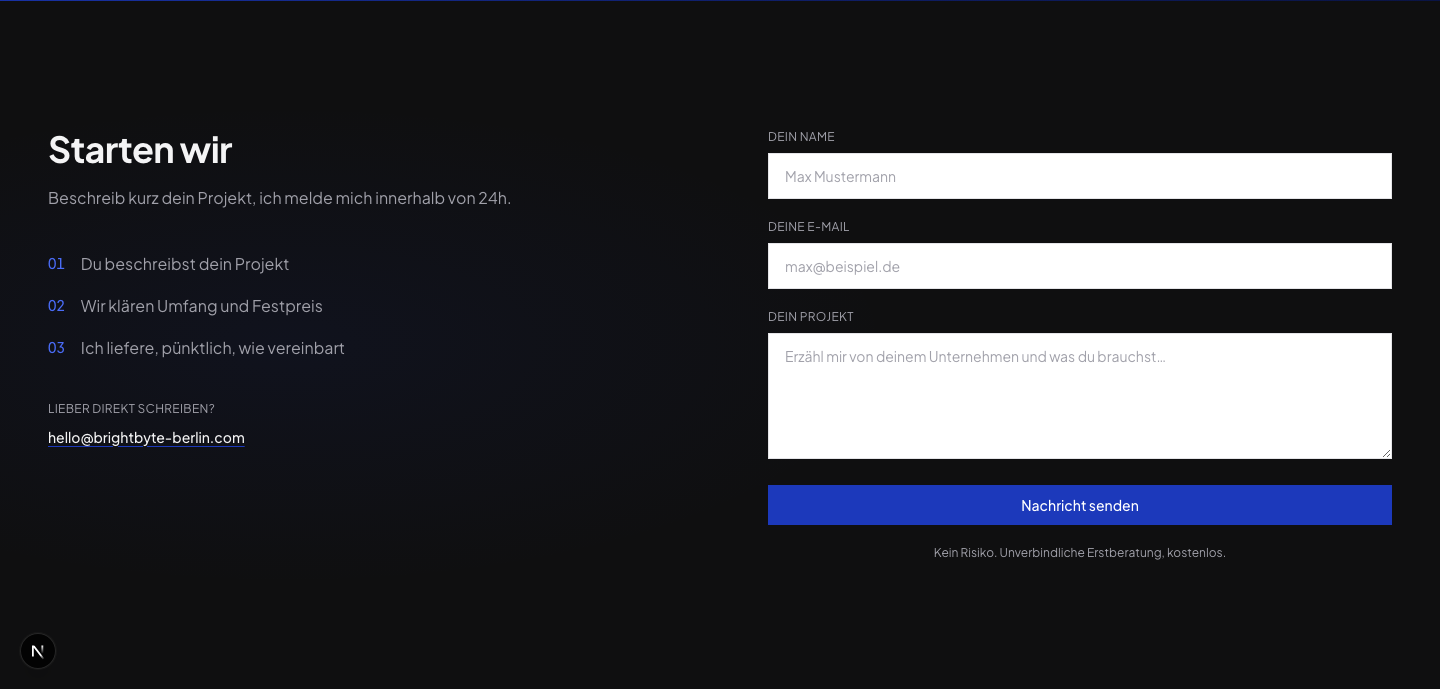
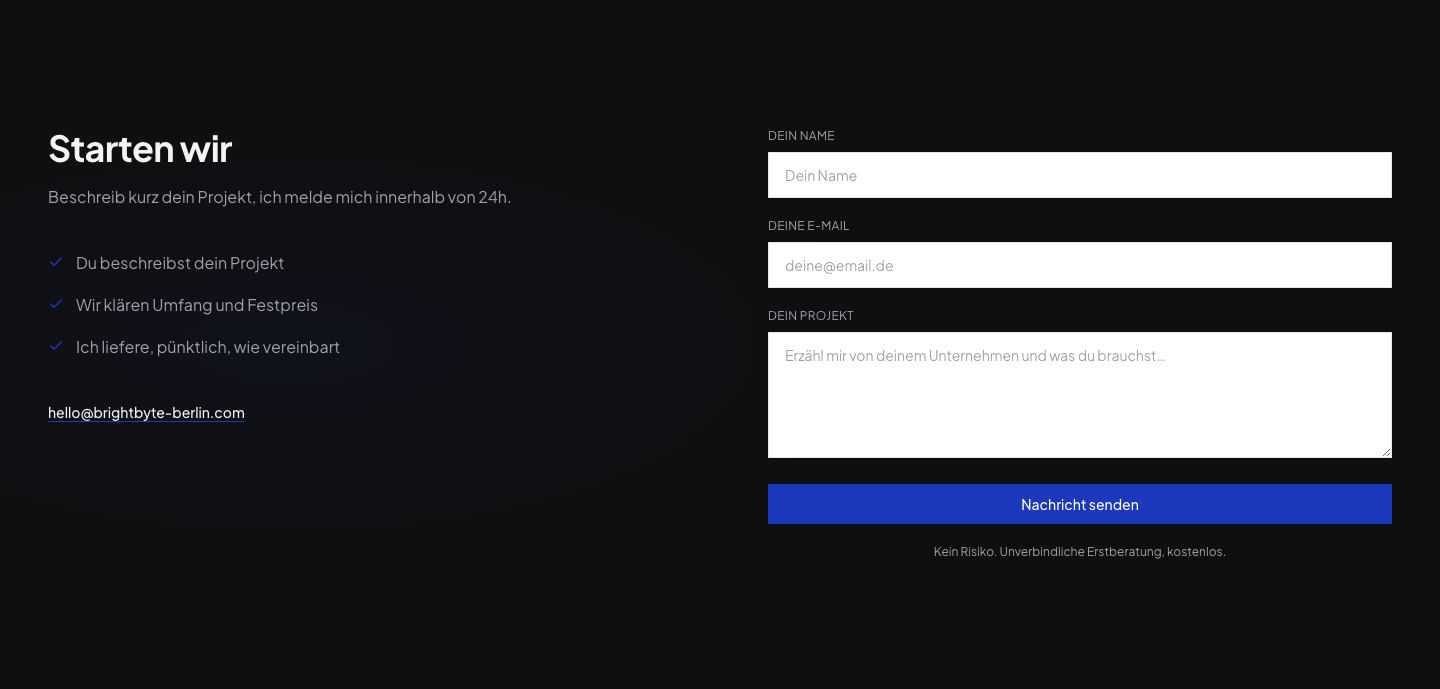
refactor: about illustration, centered pricing, clean contact
About:
- Abstract geometric SVG replaces stock photo (accent rectangles,
  lines, dot matching the wireframe language)
- Removed stat-line template per craft-floor (no hero-metric pattern)
- Vertically centered grid alignment

Pricing:
- Centered heading and trust note
- gap-px card grid (max-w-4xl mx-auto) matching services pattern
- Accent-colored checkmarks instead of inline blue hex

Contact:
- Neutral placeholders (Dein Name, deine@email.de)
- Checkmark list replaces numbered steps (craft-floor: no 01/02/03)
- Removed LIEBER DIREKT SCHREIBEN kicker
- Reduced radial glow opacity

diff --git a/components/sections/AboutSection.tsx b/components/sections/AboutSection.tsx
@@ -1,9 +1,9 @@
 /**
  * components/sections/AboutSection.tsx — About section, dark surface.
  *
- * Dark background between Projects and Pricing.
- * Photo left (stock fallback until real photo in Sanity), text right.
- * No decorative glow, no eyebrow. Heading carries its own weight.
+ * Abstract geometric illustration left, text right.
+ * No decorative glow, no eyebrow, no stat-line template.
+ * Skills as a quiet middot-separated line.
  */
 'use client'
 
@@ -14,9 +14,35 @@ import type { SITE_SETTINGS_QUERY_RESULT } from '@/sanity.types'
 
 const SKILLS = ['React', 'Next.js', 'TypeScript', 'Node.js', 'Tailwind', 'Figma', 'Sanity', 'Vercel']
 
-/** Stock headshot placeholder until a real photo lands in Sanity. */
-const STOCK_PHOTO =
-  'https://images.pexels.com/photos/2379004/pexels-photo-2379004.jpeg?auto=compress&cs=tinysrgb&w=640&h=840&fit=crop'
+/**
+ * Abstract geometric illustration: overlapping rectangles in the accent palette.
+ * Sits in the photo slot until a real portrait lands in Sanity.
+ * Pure SVG, no external dependency, matches the wireframe language.
+ */
+function AbstractPortrait() {
+  return (
+    <div
+      className="w-[280px] h-[370px] md:w-[300px] md:h-[400px] flex items-center justify-center"
+      style={{ background: 'linear-gradient(160deg, #0F0F10 0%, #111114 100%)' }}
+      aria-hidden="true"
+    >
+      <svg viewBox="0 0 240 320" fill="none" className="w-[200px] h-[280px]">
+        {/* Large accent rectangle */}
+        <rect x="20" y="40" width="140" height="180" fill="var(--color-accent)" opacity="0.15" />
+        {/* Medium offset rectangle */}
+        <rect x="80" y="100" width="140" height="180" stroke="var(--color-accent)" strokeWidth="1" opacity="0.3" />
+        {/* Small solid accent block */}
+        <rect x="60" y="160" width="60" height="60" fill="var(--color-accent)" opacity="0.25" />
+        {/* Thin horizontal lines */}
+        <line x1="20" y1="250" x2="220" y2="250" stroke="white" strokeWidth="0.5" opacity="0.1" />
+        <line x1="20" y1="265" x2="160" y2="265" stroke="white" strokeWidth="0.5" opacity="0.1" />
+        <line x1="20" y1="280" x2="100" y2="280" stroke="white" strokeWidth="0.5" opacity="0.1" />
+        {/* Dot accent */}
+        <circle cx="200" cy="60" r="4" fill="var(--color-accent)" opacity="0.4" />
+      </svg>
+    </div>
+  )
+}
 
 interface AboutSectionProps {
   settings: SITE_SETTINGS_QUERY_RESULT | null
@@ -26,13 +52,12 @@ interface AboutSectionProps {
 
 export function AboutSection({ settings, aboutPhotoUrl }: AboutSectionProps) {
   const t = useTranslations('About')
-  const photoUrl = aboutPhotoUrl ?? STOCK_PHOTO
 
   return (
     <MotionSection id="about" className="py-24 md:py-32 bg-surface-dark">
       <div className="px-6 md:px-8 lg:px-12 xl:px-[max(calc((100vw-90rem)/2+3rem),3rem)]">
-        <div className="grid grid-cols-1 md:grid-cols-[auto_1fr] gap-12 md:gap-20 items-start">
-          {/* Photo */}
+        <div className="grid grid-cols-1 md:grid-cols-[auto_1fr] gap-12 md:gap-20 items-center">
+          {/* Photo or abstract illustration */}
           <div className="flex-shrink-0">
             {aboutPhotoUrl ? (
               <div
@@ -52,40 +77,22 @@ export function AboutSection({ settings, aboutPhotoUrl }: AboutSectionProps) {
                 />
               </div>
             ) : (
-              <div
-                className="relative w-[280px] h-[370px] md:w-[300px] md:h-[400px] overflow-hidden"
-                data-testid="about-photo-stock"
-              >
-                {/* eslint-disable-next-line @next/next/no-img-element */}
-                <img
-                  src={STOCK_PHOTO}
-                  alt="Daniel Jin Wodke"
-                  className="absolute inset-0 w-full h-full object-cover"
-                  loading="lazy"
-                  style={{
-                    outline: '1px solid rgba(255,255,255,0.1)',
-                    outlineOffset: '-1px',
-                  }}
-                />
-              </div>
+              <AbstractPortrait />
             )}
           </div>
 
           {/* Text */}
-          <div className="flex flex-col justify-center">
+          <div className="flex flex-col">
             <h2 className="text-3xl md:text-4xl font-bold text-on-dark leading-[1.1] tracking-[-0.02em] mb-2">
               {t('name')}
             </h2>
             <p className="text-base text-muted-on-dark mb-8">{t('subline')}</p>
             <p
-              className="text-base text-muted-on-dark leading-[1.7] max-w-[520px] text-pretty mb-8"
+              className="text-base text-muted-on-dark leading-[1.7] max-w-[520px] text-pretty mb-10"
               data-testid="about-body"
             >
               {t('body')}
             </p>
-
-            {/* Stat line */}
-            <p className="text-sm font-medium text-on-dark mb-8">{t('stat')}</p>
 
             {/* Skills */}
             <p className="text-sm text-muted-on-dark">

diff --git a/components/sections/PricingSection.tsx b/components/sections/PricingSection.tsx
@@ -1,9 +1,9 @@
 /**
- * components/sections/PricingSection.tsx — Pricing on dark background with blue accents.
+ * components/sections/PricingSection.tsx — Pricing on dark surface.
  *
- * Dark surface matching the projects section. Creates a strong dark band
- * in the middle of the page. Blue accent on prices and CTAs.
- * Stripe texture for consistency with the hero.
+ * Centered heading, gap-px card grid matching the services pattern.
+ * Each card: service label, price, suffix, includes list, CTA.
+ * Trust note below the grid.
  */
 import { useTranslations } from 'next-intl'
 import { MotionSection } from '@/components/ui/MotionSection'
@@ -19,24 +19,28 @@ function PricingSectionInner({ services }: PricingSectionProps) {
   if (!services || services.length === 0) return null
 
   return (
-    <MotionSection id="pricing" className="relative py-24 md:py-32 bg-surface-dark overflow-hidden">
-      <div className="relative px-6 md:px-8 lg:px-12 xl:px-[max(calc((100vw-90rem)/2+3rem),3rem)]">
-        <h2 className="text-3xl md:text-4xl font-bold text-on-dark leading-[1.1] tracking-[-0.02em] max-w-lg mb-16 md:mb-20">
-          {t('heading')}
-        </h2>
+    <MotionSection id="pricing" className="py-24 md:py-32 bg-surface-dark">
+      <div className="px-6 md:px-8 lg:px-12 xl:px-[max(calc((100vw-90rem)/2+3rem),3rem)]">
+        {/* Centered heading */}
+        <div className="max-w-2xl mx-auto text-center mb-16 md:mb-20">
+          <h2 className="text-3xl md:text-4xl font-bold text-on-dark leading-[1.1] tracking-[-0.02em]">
+            {t('heading')}
+          </h2>
+        </div>
 
-        <div className="grid grid-cols-1 md:grid-cols-2 gap-12 md:gap-16 max-w-4xl">
+        {/* gap-px card grid */}
+        <div className="grid grid-cols-1 md:grid-cols-2 gap-px bg-muted-on-dark/15 max-w-4xl mx-auto">
           {services.map((service) => (
-            <div key={service._id} className="flex flex-col" data-testid="pricing-card">
-              <p className="text-sm text-muted-on-dark uppercase tracking-wide mb-4">{service.title}</p>
-              <p className="text-5xl md:text-6xl font-bold text-on-dark leading-none tracking-[-0.03em] mb-2 tabular-nums" data-testid="pricing-price">
+            <div key={service._id} className="bg-surface-dark p-10 lg:p-12 flex flex-col" data-testid="pricing-card">
+              <p className="text-sm text-muted-on-dark uppercase tracking-wide mb-6">{service.title}</p>
+              <p className="text-4xl md:text-5xl font-bold text-on-dark leading-none tracking-[-0.03em] mb-2 tabular-nums" data-testid="pricing-price">
                 {service.priceOnRequest
                   ? t('priceOnRequest')
                   : service.price?.priceFrom && service.price?.amount
                     ? `${t('priceFrom')} \u20AC${service.price.amount}`
                     : service.price?.label ?? (service.price?.amount ? `\u20AC${service.price.amount}` : t('priceOnRequest'))}
               </p>
-              <p className="text-sm text-muted-on-dark mb-8">
+              <p className="text-sm text-muted-on-dark mb-10">
                 {service.priceOnRequest ? t('priceOnRequestSuffix') : t('priceSuffix')}
               </p>
 
@@ -44,7 +48,7 @@ function PricingSectionInner({ services }: PricingSectionProps) {
                 <ul className="space-y-3 mb-10 flex-1">
                   {service.includes.map((item, idx) => (
                     <li key={idx} className="text-base text-muted-on-dark flex items-start gap-2.5">
-                      <svg width="14" height="14" viewBox="0 0 24 24" fill="none" stroke="currentColor" strokeWidth="2.5" strokeLinecap="round" strokeLinejoin="round" className="mt-0.5 flex-shrink-0" style={{ color: '#4A6CF7' }} aria-hidden="true">
+                      <svg width="14" height="14" viewBox="0 0 24 24" fill="none" stroke="currentColor" strokeWidth="2.5" strokeLinecap="round" strokeLinejoin="round" className="mt-1 flex-shrink-0 text-accent" aria-hidden="true">
                         <polyline points="20 6 9 17 4 12" />
                       </svg>
                       <span>{item}</span>
@@ -60,7 +64,8 @@ function PricingSectionInner({ services }: PricingSectionProps) {
           ))}
         </div>
 
-        <p className="mt-10 text-base text-muted-on-dark max-w-lg">{t('trustNote')}</p>
+        {/* Trust note */}
+        <p className="mt-12 text-sm text-muted-on-dark text-center max-w-lg mx-auto">{t('trustNote')}</p>
       </div>
     </MotionSection>
   )

diff --git a/components/sections/ContactSection.tsx b/components/sections/ContactSection.tsx
@@ -60,7 +60,7 @@ export function ContactSection() {
     <MotionSection id="contact" className="relative py-24 md:py-32 bg-surface-dark overflow-hidden">
       {/* Subtle blue radial glow */}
       <div className="absolute inset-0 pointer-events-none" style={{
-        background: 'radial-gradient(ellipse 60% 50% at 20% 50%, rgba(28,57,187,0.08), transparent 70%)',
+        background: 'radial-gradient(ellipse 60% 50% at 20% 50%, rgba(28,57,187,0.06), transparent 70%)',
       }} />
 
       <div className="relative px-6 md:px-8 lg:px-12 xl:px-[max(calc((100vw-90rem)/2+3rem),3rem)]">
@@ -72,23 +72,20 @@ export function ContactSection() {
             </h2>
             <p className="text-base text-muted-on-dark leading-relaxed text-pretty mb-10">{t('subline')}</p>
 
-            <ol className="space-y-4 mb-10">
+            <ul className="space-y-4 mb-10">
               {[t('step1'), t('step2'), t('step3')].map((step, i) => (
-                <li key={i} className="flex items-start gap-4">
-                  <span className="flex-shrink-0 text-sm font-medium tabular-nums leading-6" style={{ color: '#4A6CF7' }} aria-hidden="true">
-                    {String(i + 1).padStart(2, '0')}
-                  </span>
+                <li key={i} className="flex items-start gap-3">
+                  <svg width="16" height="16" viewBox="0 0 24 24" fill="none" stroke="currentColor" strokeWidth="2" strokeLinecap="round" strokeLinejoin="round" className="mt-1 flex-shrink-0 text-accent" aria-hidden="true">
+                    <polyline points="20 6 9 17 4 12" />
+                  </svg>
                   <span className="text-base text-muted-on-dark leading-relaxed text-pretty">{step}</span>
                 </li>
               ))}
-            </ol>
+            </ul>
 
-            <div>
-              <p className="text-xs text-muted-on-dark uppercase tracking-wide mb-2">{t('directLabel')}</p>
-              <a href={'mailto:' + t('directEmail')} className="text-sm font-medium text-on-dark underline decoration-accent underline-offset-3 hover:opacity-70 transition-opacity">
-                {t('directEmail')}
-              </a>
-            </div>
+            <a href={'mailto:' + t('directEmail')} className="text-sm font-medium text-on-dark underline decoration-accent underline-offset-3 hover:opacity-70 transition-opacity">
+              {t('directEmail')}
+            </a>
           </div>
 
           {/* Right: form */}
